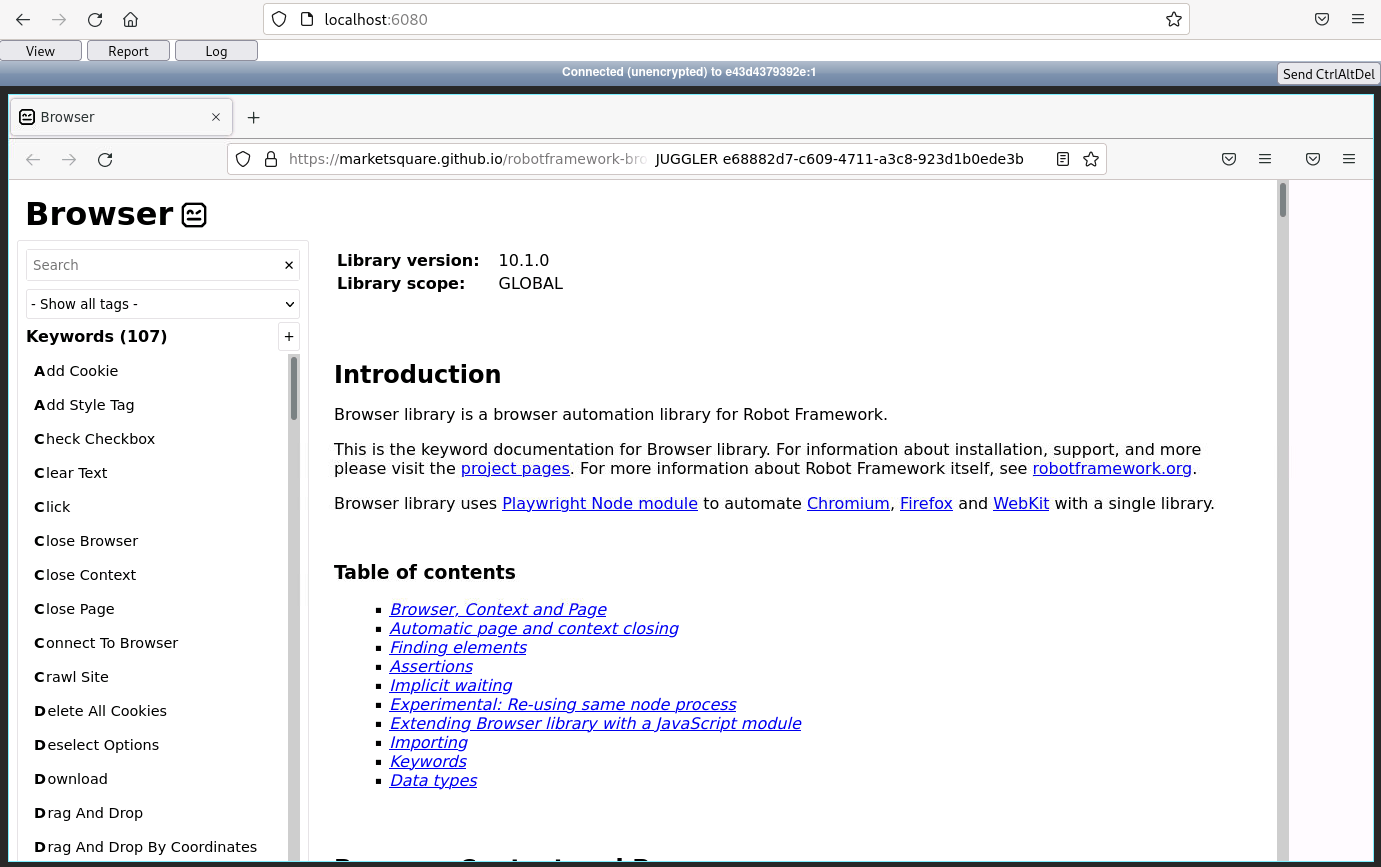
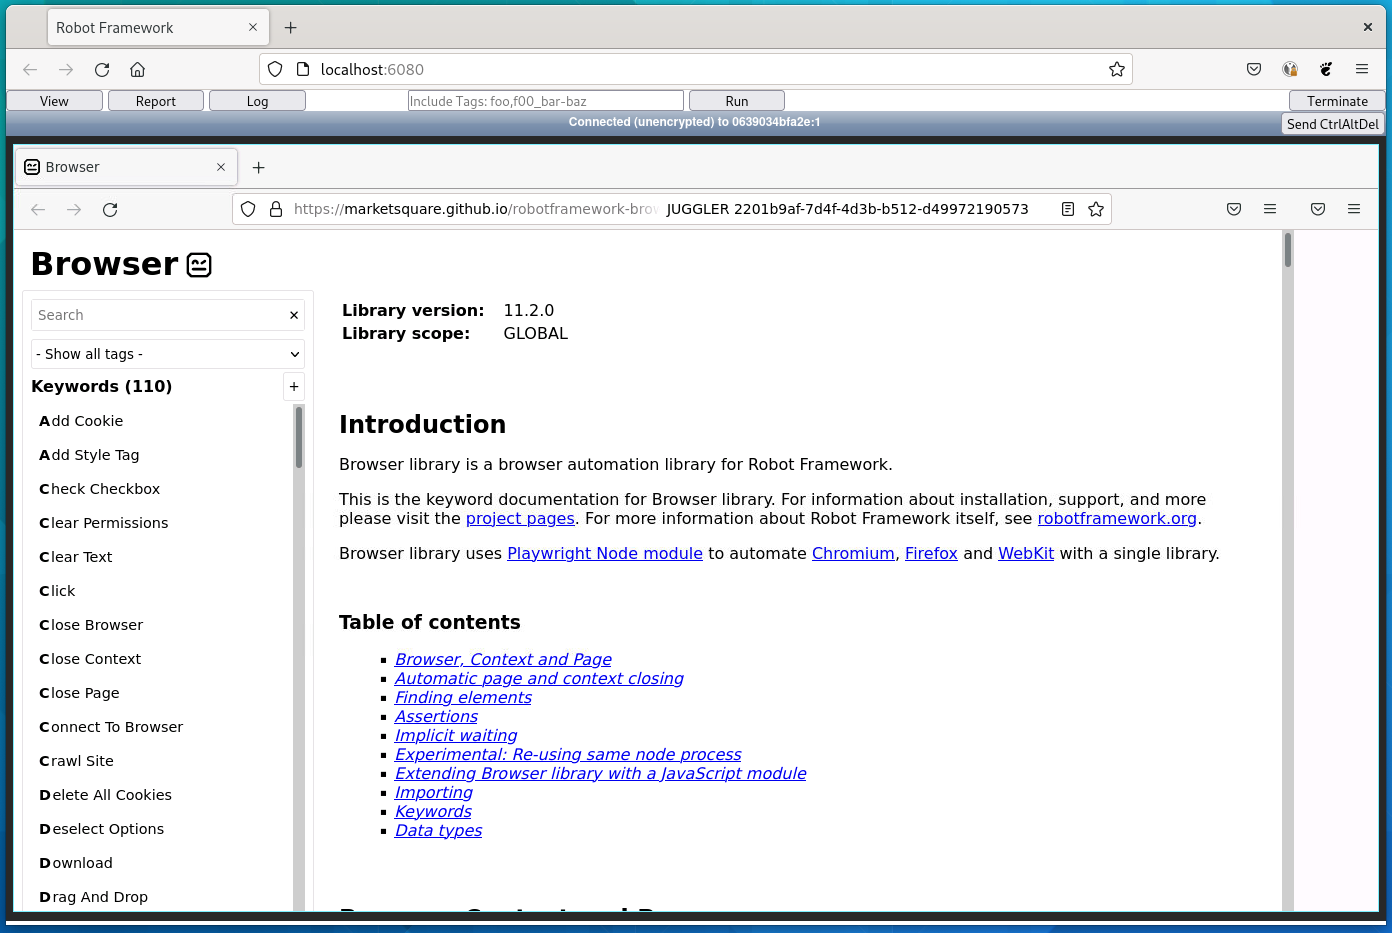
docs: update README.md to include port for actions and update the image

diff --git a/README.md b/README.md
@@ -69,7 +69,7 @@ https://hub.docker.com/r/matejc/rf-novnc/tags
 It's meant to run in CI/CD or in environment where you want to run robot once and optionally look at execution if the tests run longer time.
 
 ```shell
-$ docker run -ti --rm -p 6080:6080 \
+$ docker run -ti --rm -p 6080:6080 -p 10081:10081 \
   -v ./examples/Browser:/home/pwuser/source:ro rf-novnc:Browser
 ```
 
@@ -83,7 +83,7 @@ It's meant for development or for workshops where you want to focus on Robot Fra
 You can also click the Run button in the UI at `http://localhost:6080`
 
 ```shell
-$ docker run -ti --rm -p 6080:6080 -e ROBOT_RUN_MODE=watch \
+$ docker run -ti --rm -p 6080:6080 -p 10081:10081 -e ROBOT_RUN_MODE=watch \
   -v ./examples/Browser:/home/pwuser/source:ro rf-novnc:Browser
 ```
 
@@ -95,7 +95,7 @@ And then check execution of Robot Framework tests in your favorite browser at ad
 It's meant for when you need to run on demand by clicking on Run button at `http://localhost:6080`.
 
 ```shell
-$ docker run -ti --rm -p 6080:6080 -e ROBOT_RUN_MODE=button \
+$ docker run -ti --rm -p 6080:6080 -p 10081:10081 -e ROBOT_RUN_MODE=button \
   -v ./examples/Browser:/home/pwuser/source:ro rf-novnc:Browser
 ```
 
@@ -139,6 +139,8 @@ Since the container will run several processes for its function, like X server, 
 
 NoVNC/websockify is listening on 0.0.0.0:6080 inside of container, so make sure to map that port out if you plan to preview the execution.
 
+For actions like `Run` and `Terminate` button functionality, port `10081` is also needed to be published.
+
 
 ## Extend Docker image
 
@@ -157,6 +159,11 @@ USER root  # make sure that you end with seting the user back to root
 ```
 
 
-## TODO
+## Known Issues
 
-- rerun robot on save (kill the previous run)
+- When running from `podman`, you might need to add the `--security-opt label=disable` to overcome `Permission Denied` issue when robot is trying to read from volume.
+
+
+## ToDo
+
+- Rerun robot on save (kill the previous run)
